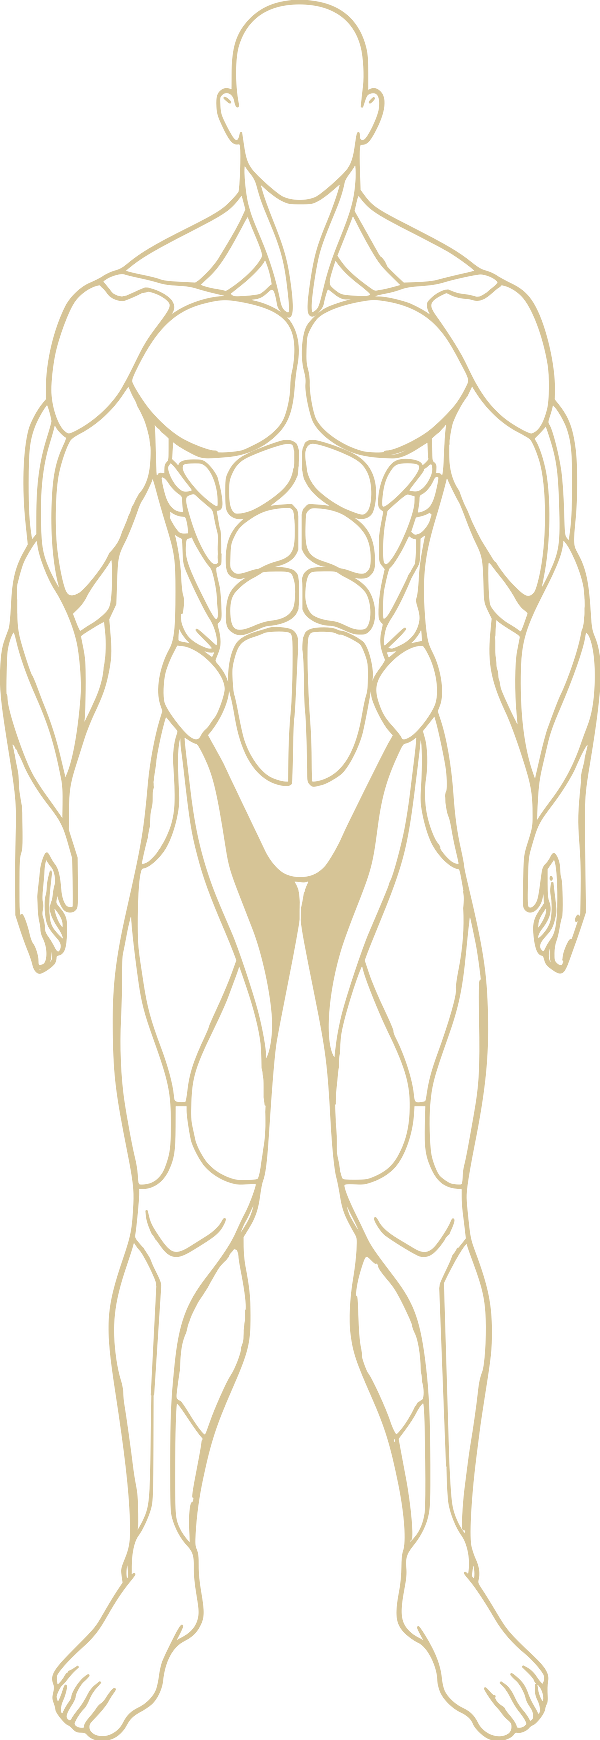
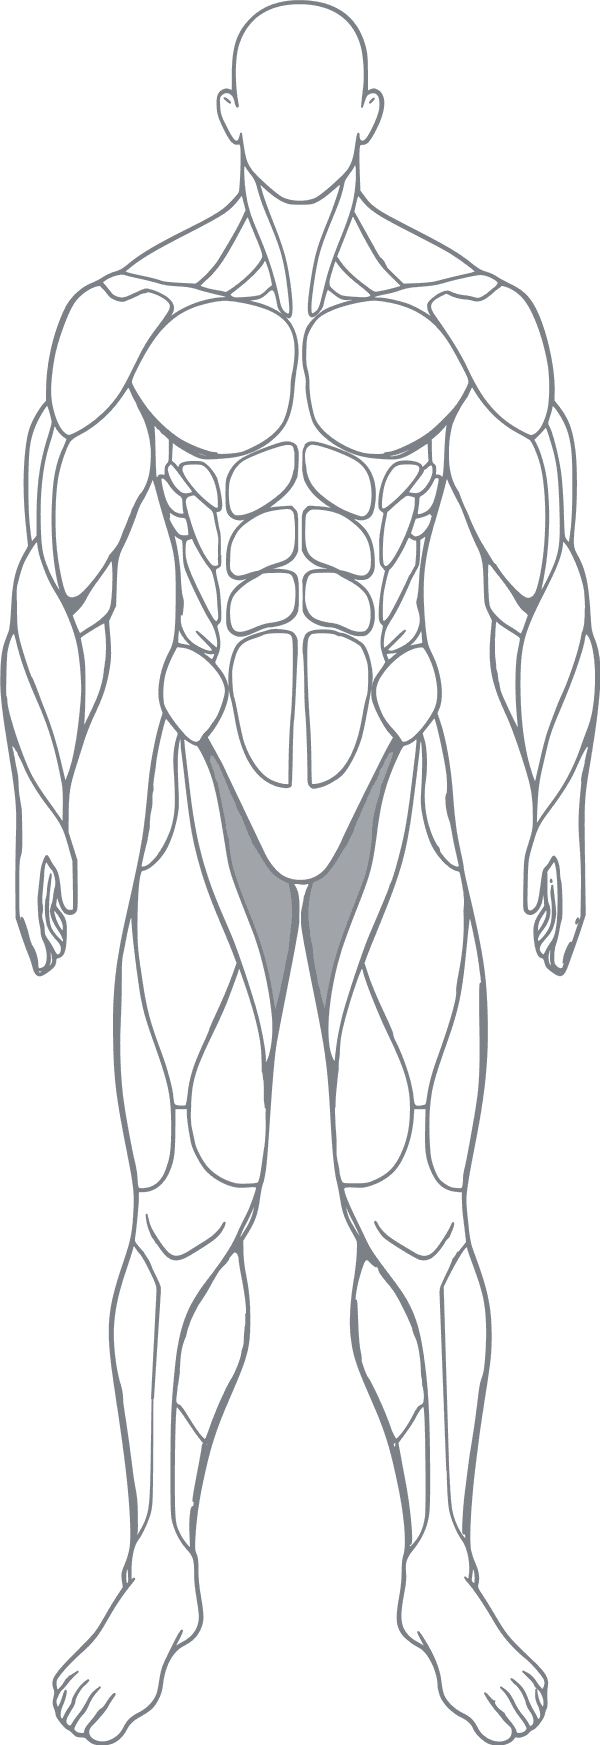
Classic anatomy look: white ground, grey striations, red worked muscles
Per Kent's direction after seeing it live: outline art re-tinted slate
grey on a white card (assets regenerated from the licensed pack), resting
muscles in light-grey hatch, worked muscles in red like classic fitness
apps, diagram smaller (172px card), and the read-only athlete view drops
the name-chip list (hover titles carry the names; the coach editor keeps
chips as its remove control). Also: the info modal's meta chips now
auto-fit instead of squeezing five fixed columns into the narrow cues
column, and the diagram column slims to 180px.

diff --git a/src/MuscleDiagram.tsx b/src/MuscleDiagram.tsx
@@ -58,6 +58,8 @@ export default function MuscleDiagram({
           aria-label={t("muscleDiagramAriaLabel")}
         >
           <defs>
+            {/* Classic anatomy-app look: white ground, light-grey striations
+                on resting muscles, red on the worked ones. */}
             <pattern
               id={dimPattern}
               patternUnits="userSpaceOnUse"
@@ -65,8 +67,8 @@ export default function MuscleDiagram({
               height="3"
               patternTransform="rotate(45)"
             >
-              <rect width="3" height="3" fill="#4a4330" />
-              <line x1="0" y1="0" x2="0" y2="3" stroke="#6b6247" strokeWidth="1" />
+              <rect width="3" height="3" fill="#f1f0ec" />
+              <line x1="0" y1="0" x2="0" y2="3" stroke="#dddad2" strokeWidth="1" />
             </pattern>
             <pattern
               id={goldPattern}
@@ -75,8 +77,8 @@ export default function MuscleDiagram({
               height="3"
               patternTransform="rotate(45)"
             >
-              <rect width="3" height="3" fill="#c99a2e" />
-              <line x1="0" y1="0" x2="0" y2="3" stroke="#ffe08a" strokeWidth="1" />
+              <rect width="3" height="3" fill="#d94840" />
+              <line x1="0" y1="0" x2="0" y2="3" stroke="#e96f68" strokeWidth="1" />
             </pattern>
           </defs>
           <image
@@ -121,7 +123,9 @@ export default function MuscleDiagram({
       {interactive && (
         <p className="muscleDiagramHint">{t("muscleDiagramHint")}</p>
       )}
-      {selected.length > 0 && (
+      {/* Read-only (athlete) view relies on hover/tap titles for names — no
+          chip list. The editor keeps chips as the remove affordance. */}
+      {interactive && selected.length > 0 && (
         <div className="muscleDiagramChips">
           {selected.map((key) => {
             const label = MUSCLE_LABELS[key];

diff --git a/src/MuscleDiagram.css b/src/MuscleDiagram.css
@@ -31,11 +31,11 @@
 
 .muscleDiagramCard {
   width: 100%;
-  max-width: 220px;
-  padding: 18px 14px;
-  border-radius: 16px;
-  background: #0d0f1a;
-  box-shadow: inset 0 0 0 1px rgba(212, 175, 55, 0.14);
+  max-width: 172px;
+  padding: 12px 10px;
+  border-radius: 14px;
+  background: #ffffff;
+  border: 1px solid #e7e3d9;
 }
 .muscleDiagramSvg {
   width: 100%;
@@ -47,17 +47,14 @@
 }
 .muscleDiagramRegion {
   stroke: none;
-  opacity: 0.82;
-  transition: opacity 0.15s ease;
+  opacity: 1;
+  transition: filter 0.15s ease;
 }
 .muscleDiagramRegion.isInteractive {
   cursor: pointer;
 }
 .muscleDiagramRegion.isInteractive:hover {
-  opacity: 1;
-}
-.muscleDiagramRegion.isSelected {
-  opacity: 1;
+  filter: brightness(0.92);
 }
 
 .muscleDiagramHint {

diff --git a/src/App.css b/src/App.css
@@ -4352,7 +4352,9 @@ body {
 
 .exerciseDetailMeta {
   display: grid;
-  grid-template-columns: repeat(5, minmax(0, 1fr));
+  /* Auto-fit: in the narrow cues column beside the diagram, 5 fixed tracks
+     squeezed each chip to a sliver and truncated the labels. */
+  grid-template-columns: repeat(auto-fit, minmax(108px, 1fr));
   gap: 10px;
   margin-bottom: 16px;
 }

diff --git a/src/appInterior.css b/src/appInterior.css
@@ -1074,7 +1074,7 @@
   min-width: 0;
 }
 .technicalCueDiagramCol {
-  flex: 0 0 220px;
+  flex: 0 0 180px;
 }
 .exerciseCueSections {
   display: grid;
